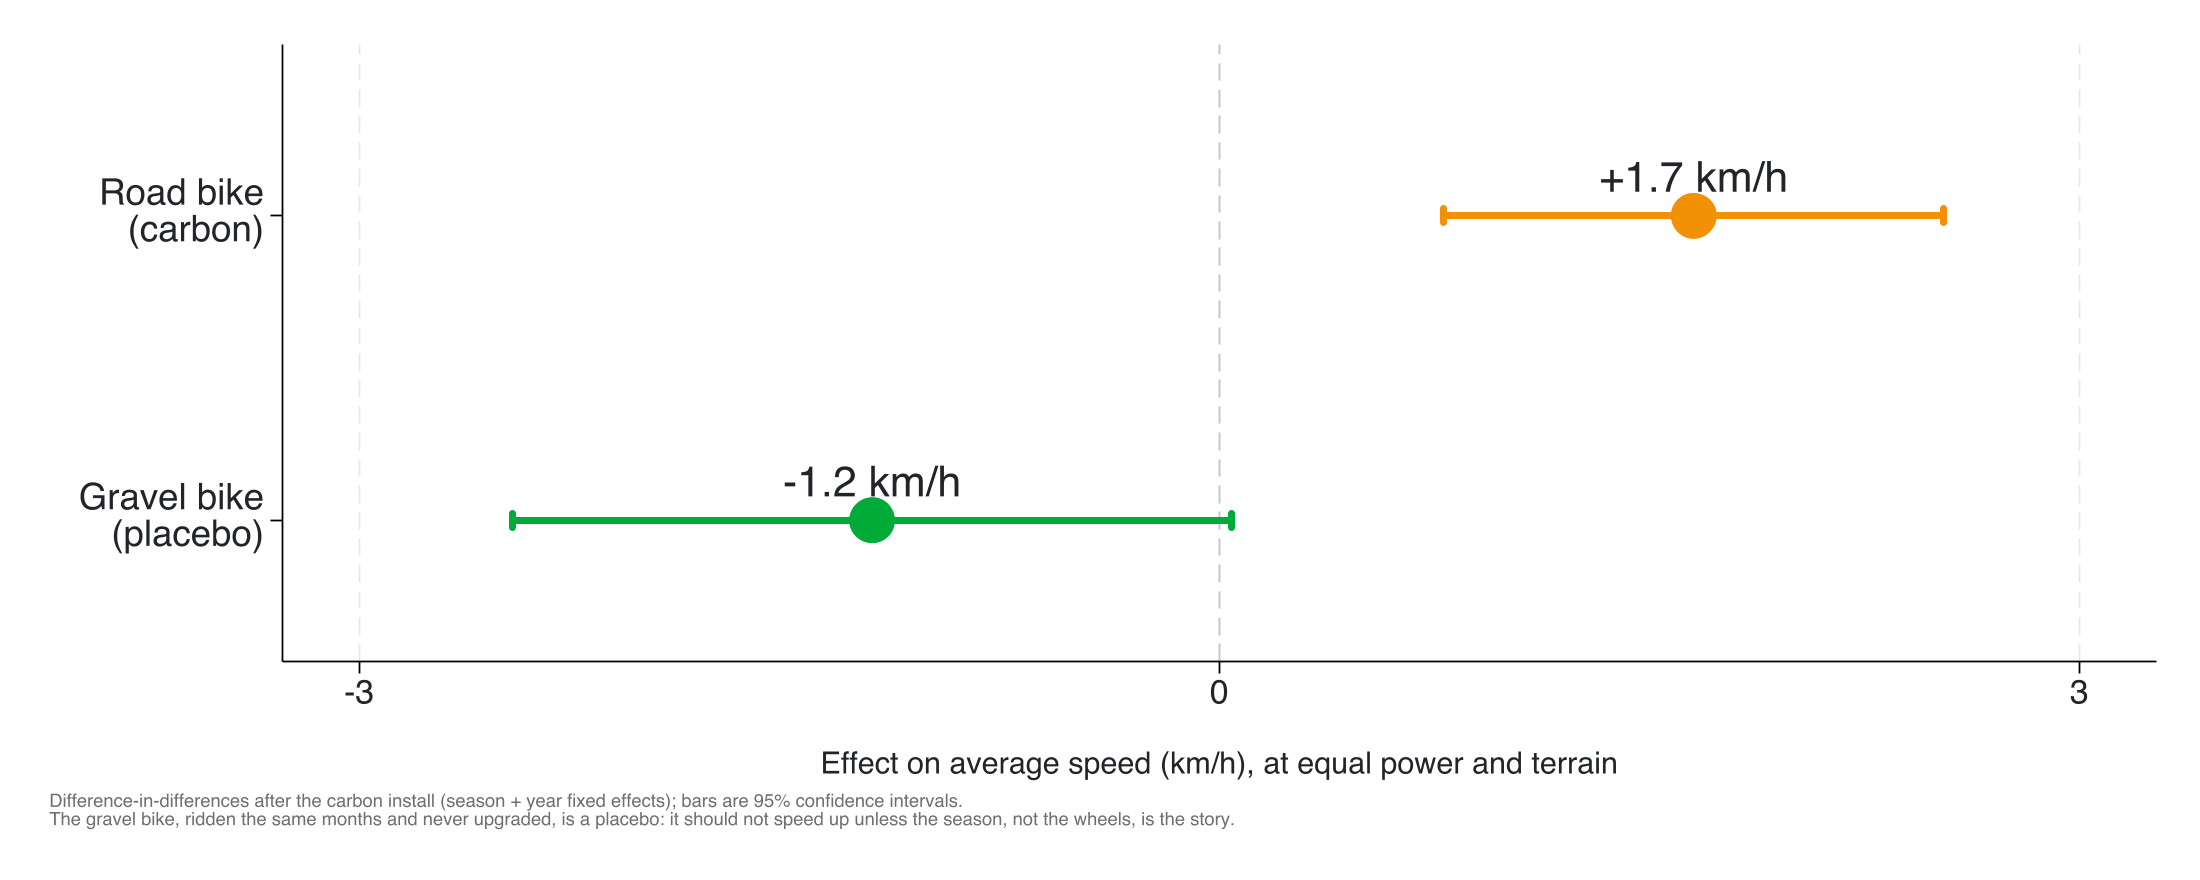
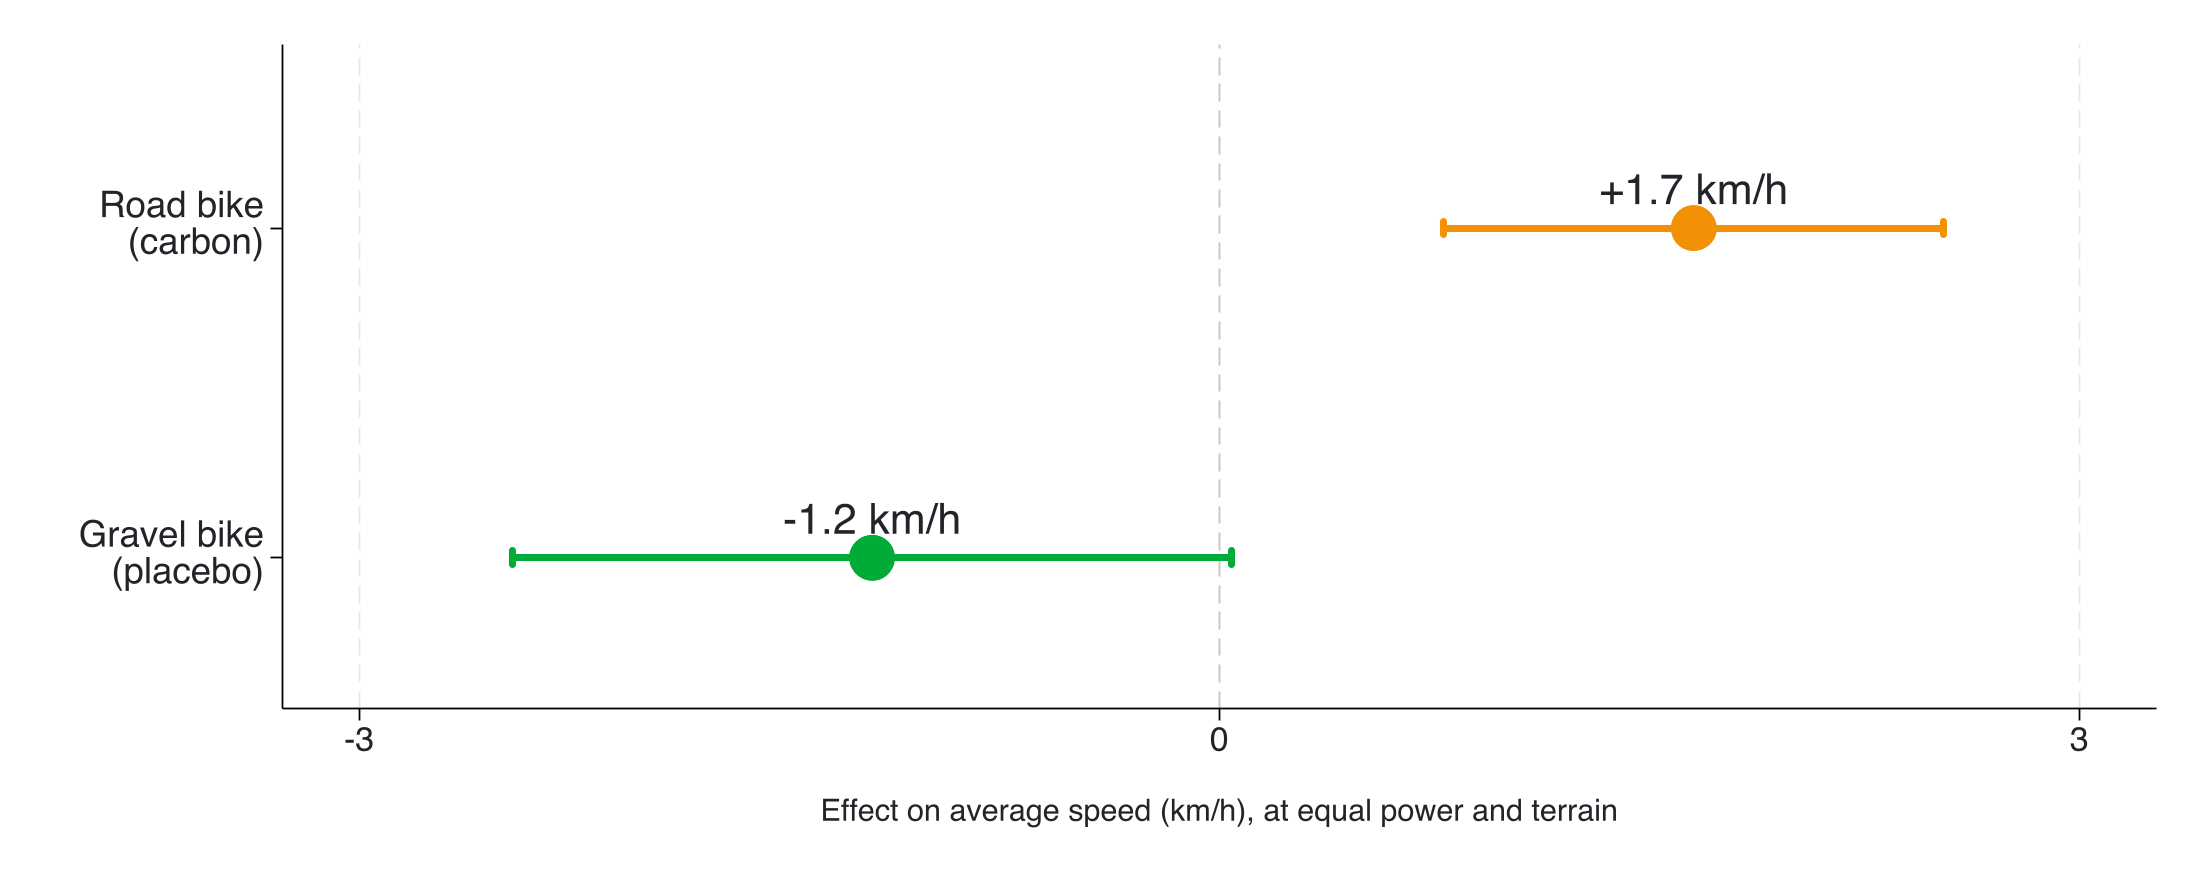
Beyond Research: hobby photos with locations, broaden bio, clean figure
Add a four-photo row (cycling near Schwarzenburg and above Lake Geneva,
hiking in the Alps and above Schwarzsee) with location captions. Broaden
the bio to outdoor + indoor (Zwift) riding plus hiking and the occasional
run. Strip the baked-in note from the DiD figure; the note now lives in
the markdown caption so it is editable without regenerating the image.

diff --git a/_pages/beyond_research.md b/_pages/beyond_research.md
@@ -11,11 +11,26 @@ Outside my academic work, my main hobby is cycling, and every so often the two c
 
 ### Cycling
 
-I ride road bikes, and I try to put in 8 to 12 hours a week, though the honest average is closer to 8 or 9; a good week hits 12, but life tends to get in the way. Most of it is around Fribourg, where I live: into the hills and mountains when I want to climb, and out toward the Murtensee (Lake Murten) when I want flatter, faster roads.
+I ride bikes, both outdoors and indoors on Zwift, and I try to put in 8 to 12 hours a week, though the honest average is closer to 8 or 9; a good week hits 12, but life tends to get in the way. Most of it is around Fribourg, where I live: into the hills and mountains when I want to climb, and out toward the Murtensee (Lake Murten) when I want flatter, faster roads. Off the bike, I also hike, nothing too extreme, and go for the occasional run.
+
+<div class="row">
+  <div class="col-sm-3 col-6 mt-3 mt-md-0">
+    {% include figure.liquid loading="eager" path="assets/img/beyond/bike-prealps.jpg" class="img-fluid rounded z-depth-1" zoomable=true caption="On the carbon bike near Schwarzenburg, the Préalpes behind." %}
+  </div>
+  <div class="col-sm-3 col-6 mt-3 mt-md-0">
+    {% include figure.liquid loading="eager" path="assets/img/beyond/bike-lacleman.jpg" class="img-fluid rounded z-depth-1" zoomable=true caption="Climbing above Lake Geneva, in the Lavaux vineyards (Puidoux)." %}
+  </div>
+  <div class="col-sm-3 col-6 mt-3 mt-md-0">
+    {% include figure.liquid loading="eager" path="assets/img/beyond/hike-ridge.jpg" class="img-fluid rounded z-depth-1" zoomable=true caption="Hiking in the Alps." %}
+  </div>
+  <div class="col-sm-3 col-6 mt-3 mt-md-0">
+    {% include figure.liquid loading="eager" path="assets/img/beyond/trail-meadow.jpg" class="img-fluid rounded z-depth-1" zoomable=true caption="Above Schwarzsee, in the Fribourg Préalpes." %}
+  </div>
+</div>
 
 #### The intersection between statistics and my hobby
 
-Recording every ride for years leaves me with a lot of data, and I can't quite resist pointing my day-job tools at it. The first thing I tested: whether the expensive carbon wheels I bought are actually faster, or mostly marketing.
+Recording every ride for years leaves me with a lot of data, so I analyzed it the way I would any other dataset. The first thing I tested: whether the expensive carbon wheels I bought are actually faster, or mostly marketing.
 
 On 21 April 2026 I replaced my road bike's aluminium wheels with deep-section carbon ones and left everything else unchanged. Adjusting for power and terrain, the carbon setup is the fastest of my three bikes, about **+1.2 km/h** quicker than the same road bike on its old alloy wheels:
 
